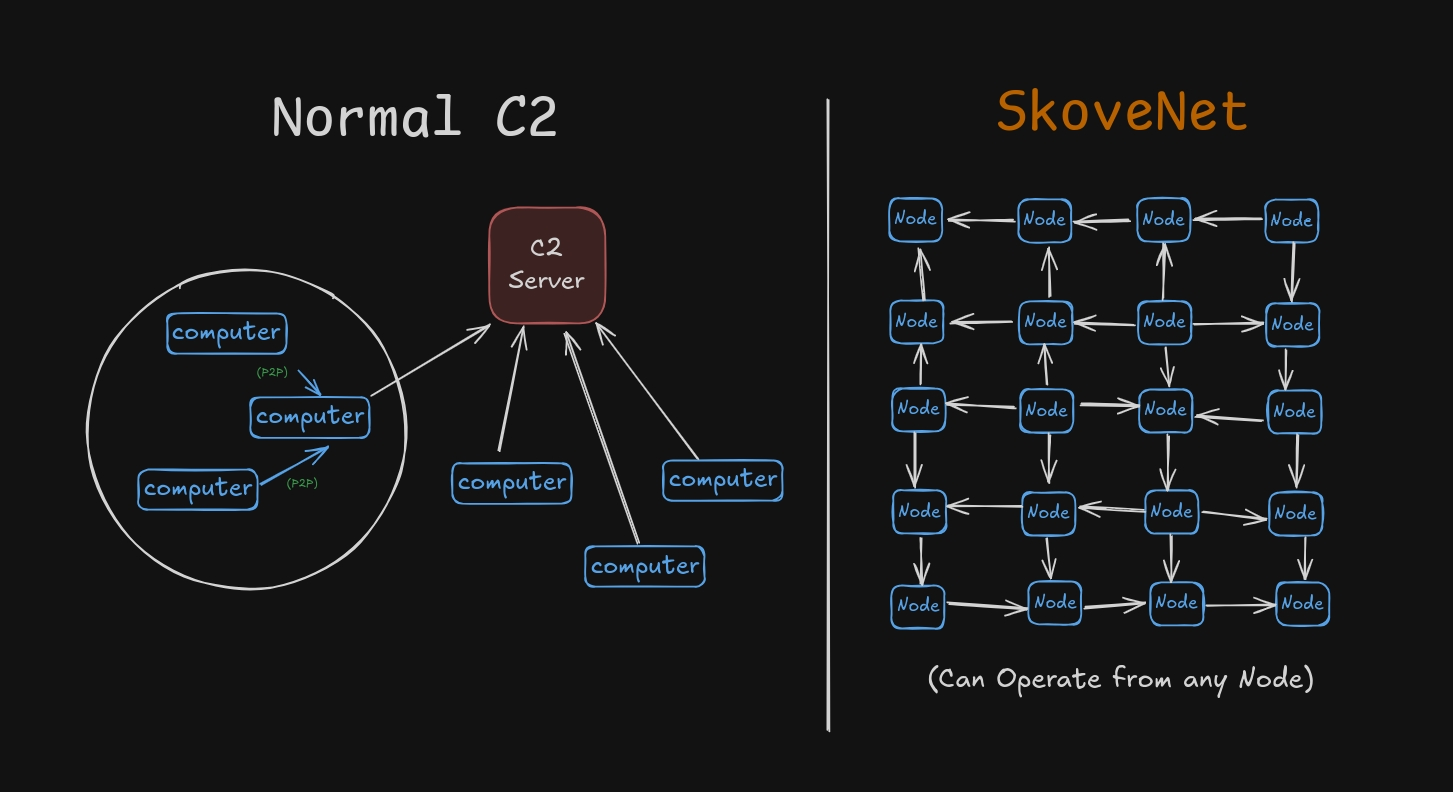
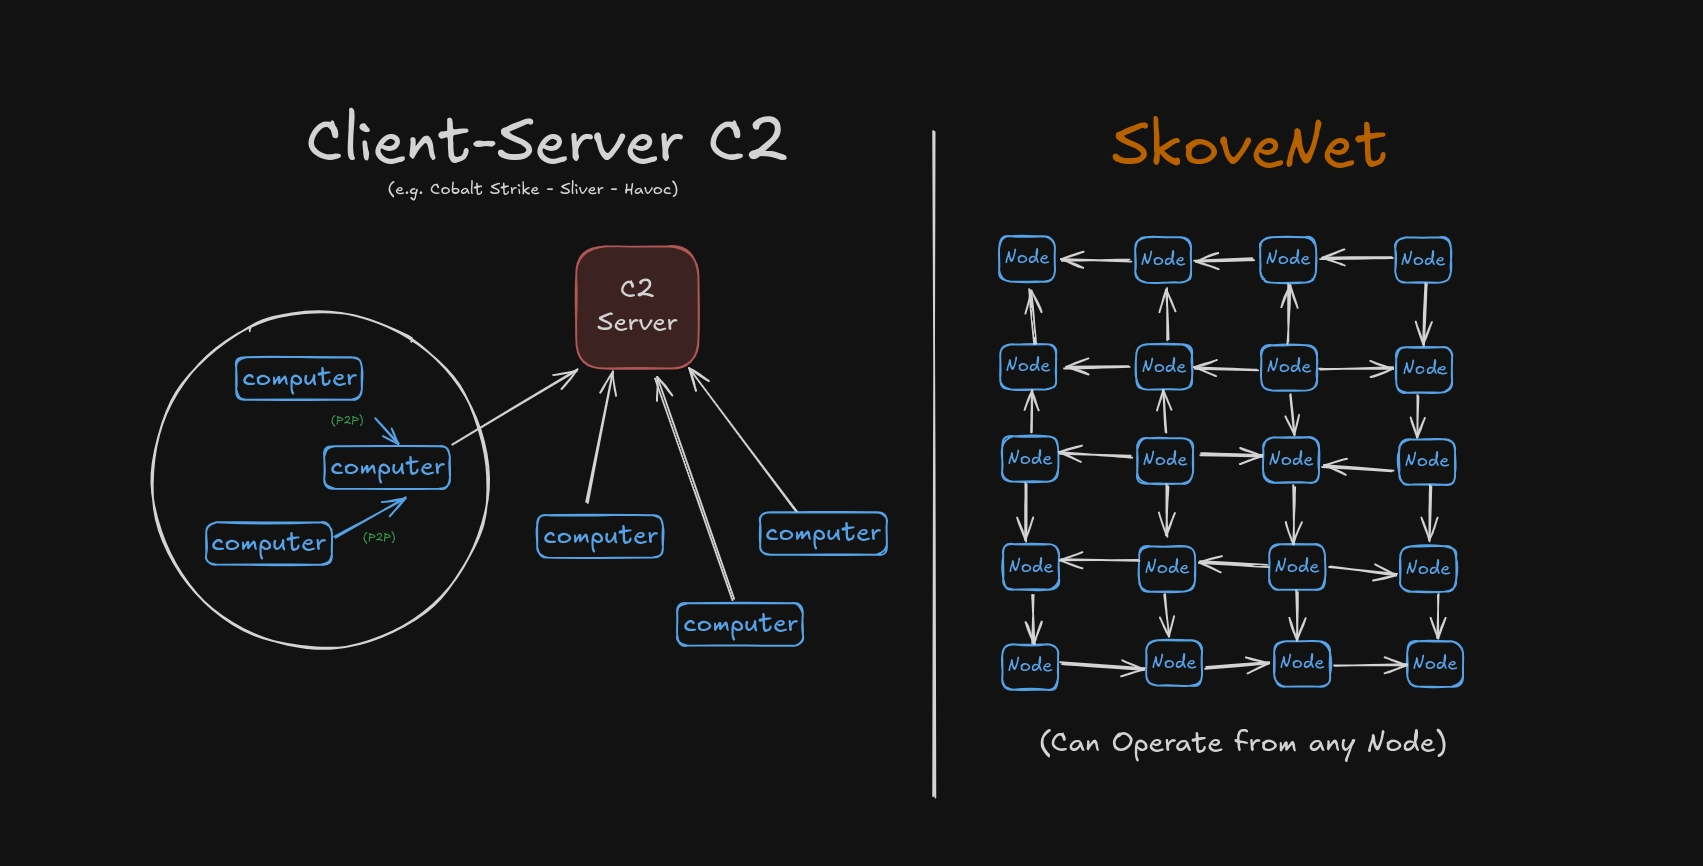
fix Makefile

diff --git a/README.md b/README.md
@@ -1,16 +1,25 @@
 
+[![Release](https://github.com/skoveit/skovenet/actions/workflows/release.yml/badge.svg)](https://github.com/skoveit/skovenet/actions/workflows/release.yml) [![Go Report Card](https://goreportcard.com/badge/github.com/skoveit/skovenet)](https://goreportcard.com/report/github.com/skoveit/skovenet) [![License: GPL v3](https://img.shields.io/badge/License-GPLv3-blue.svg)](https://www.gnu.org/licenses/gpl-3.0)
+
+![xxn](static/banner.jpg)
+
+---
+
 **SkoveNet** is a decentralized Command & Control (C2) framework engineered to eliminate Single Points of Failure and ensure maximum operator anonymity.
 
-Unlike traditional client-server C2 models, SkoveNet implements a decoupled Agent-Controller architecture. This allows the operator to interface with the network through any active node, removing the dependency on a static command center and obfuscating the operator's physical location.
+Unlike client-server C2 models, SkoveNet implements a decoupled Agent-Controller architecture. This allows the operator to interface with the network through any active node, removing the dependency on a static command center and obfuscating the operator's physical location.
 
-![structure diagram](static/structure_diagram.png)
-**No server. No domain. No single point of failure.**
+<p align="center">
+  <img src="static/structure_diagram.png" alt="structure diagram" />
+  <br>
+  <b>No single point of failure</b>
+</p>
 
 
 ## Core Features
 - Fully decentralized P2P mesh network
-- Max 5 neighbors per agent → tiny traffic footprint
 - Automatic self-healing topology
+- Max 5 neighbors per agent → tiny traffic footprint
 - Operator = whoever has the cryptographic secret key
 - Commands signed with Ed25519 → no spoofing
 - End-to-end encrypted (Noise protocol)
@@ -19,15 +28,15 @@ Unlike traditional client-server C2 models, SkoveNet implements a decoupled Agen
 - NAT traversal & hole punching built-in
 - **`sgen`** — standalone agent generator (no Go toolchain required)
 
-## Architecture
 
-| Vector                         | Traditional C2 | SkoveNet                          |
-| ------------------------------ | -------------- | --------------------------------- |
-| Central server?                | Yes            | Never                             |
-| Killable by blocking 1 IP?     | Yes            | Impossible                        |
-| Operator has fixed location?   | Yes            | No – any node with the secret key |
-| Network dies when nodes drop?  | Yes            | No – self-healing graph           |
-| Command authenticity           | Server cert    | Ed25519-signed by secret key      |
+## The Paradigm Shift
+
+Traditional C2 frameworks rely on static, centralized infrastructure. SkoveNet shifts the operational security (OpSec) model entirely to an unstructured peer-to-peer mesh:
+
+- **Infrastructure-less Control:** No teamservers, no redirectors, and no domains to seize. The network itself is the infrastructure.
+- **Cryptographic Trust Model:** Commands are authenticated via Ed25519 signatures rather than network location or TLS certificates. The operator is simply whoever holds the private key.
+- **Self-Healing Topology:** If nodes are discovered or burned by blue teams, the routing graph dynamically recalculates to maintain command flow.
+- **Zero-Attribution:** By propagating commands through GossipSub, the concept of an "origin IP" is eradicated, making upstream operator tracing practically unfeasible.
 
 ## Components
 
@@ -37,9 +46,13 @@ Unlike traditional client-server C2 models, SkoveNet implements a decoupled Agen
 | **controller** | Operator CLI — connects to the local agent via IPC   |
 | **sgen**       | Standalone agent generator — no Go toolchain needed   |
 
-## Usage
+## Installation
 
-### Building
+The easiest way to get started is to download the pre-compiled binaries for the **Controller** and **sgen** from the [GitHub Releases](https://github.com/skoveit/skovenet/releases) page.
+
+Alternatively, you can build them from source:
+
+### Building from Source
 
 ```bash
 # Build sgen (the agent generator)
@@ -53,39 +66,47 @@ make controller
 
 ```bash
 # Generate a Linux agent (auto-creates a new keypair)
-./bin/sgen generate --os linux --arch amd64
+./sgen generate --os linux --arch amd64
 
 # Generate a Windows agent with an existing key
-./bin/sgen generate --os windows --arch amd64 --key "base64pubkey..."
+./sgen generate --os windows --arch amd64 --key "base64pubkey..."
 
 # Generate for macOS ARM (Apple Silicon)
-./bin/sgen generate --os darwin --arch arm64
+./sgen generate --os darwin --arch arm64
 
 # List all supported platforms
-./bin/sgen list
+./sgen list
 
 # Generate a keypair without building an agent
-./bin/sgen keygen
+./sgen keygen
 ```
 
 `sgen` is a self-contained binary that embeds a Go toolchain and the agent source code. It produces fully-configured agent binaries for any supported platform — no Go compiler or build tools required on the operator's machine.
 
 ### Running
 
+**Target machine:**
 ```bash
-# Start the agent (on target machine)
-./agent
+# join the network (this is the binary output by sgen)
+./agent-linux-amd64
+```
 
-# Connect with the controller (on operator machine)
+**Operator machine:**
+```bash
+# join the network
+./agent-linux-amd64
+
+# connect to the local agent via IPC
 ./controller
-
-# Inside the controller:
-sign <private_key>        # Authenticate as operator
-peers                     # List connected nodes
-use <peerID>              # Select a target node
-run whoami                # Execute command on target
-radar                     # Scan for all network nodes
-graph on                  # Open topology web viewer
+```
+**Inside the controller:**
+```bash
+> sign <private_key>        # Authenticate as operator
+> peers                     # List connected nodes
+> use <peerID>              # Select a target node
+> run whoami                # Execute command on target
+> radar                     # Scan for all network nodes
+> graph on                  # Open topology web viewer
 ```
 
 ## Engineering Challenge: NAT Traversal
